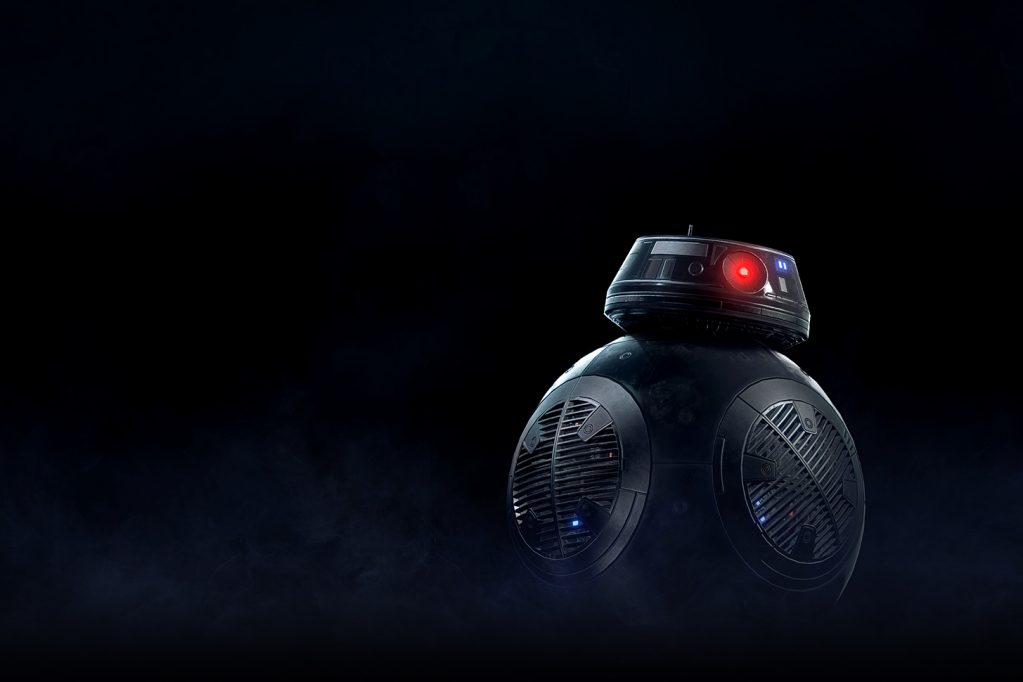
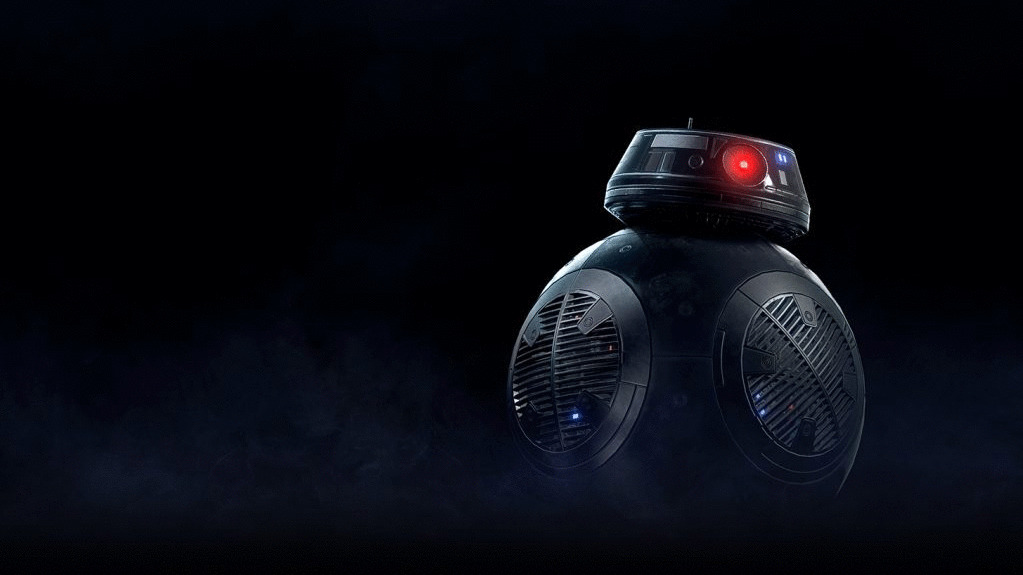
image improvements

Changed region(s): [[0.4848, 0.207, 0.8485, 0.8574]]

diff --git a/data.js b/data.js
@@ -49,7 +49,7 @@ data={
       },
       { 
          "name":"Death Star II",
-         "imgUrl":"img/location/planet/death-star-ii.jpg",
+         "imgUrl":"img/location/death-star-ii.jpg",
          "summary":{ 
             "maps":1,
             "online-modes":[ 
@@ -239,6 +239,7 @@ data={
       },
       { 
          "name":"MC85 Star Cruiser",
+            "imgUrl":"img/location/mc85-star-cruiser.jpg",
          "summary":{ 
             "maps":1,
             "online-modes":[ 
@@ -281,6 +282,7 @@ data={
       },
       { 
          "name":"Resurgent-Class Star Destroyer",
+            "imgUrl":"img/location/resurgent-class-star-destroyer.jpg",
          "summary":{ 
             "maps":1,
             "online-modes":[ 
@@ -293,7 +295,7 @@ data={
       },
       { 
          "name":"Scarif",
-         "imgUrl":"https://vignette.wikia.nocookie.net/battlefront/images/8/83/LandingPad13LoadingScreen.png/revision/latest?cb=20170725131013",
+            "imgUrl":"img/location/scarif.png",
          "summary":{ 
             "maps":2,
             "online-modes":[ 
@@ -1351,18 +1353,20 @@ data={
       "hero-weapon":[ 
       ]
    },
-   "rumours":[ 
+   "rumours":{
+	   "hero": [ 
       { 
          "name":"Ahsoka Tano",
-         "imgUrl":"https://thewookieegunner.files.wordpress.com/2019/08/star-wars-clone-wars-ahsoka-tano-trends-international-poster.png"
+            "imgUrl":"img/rumour/hero/ahsoka-tano.png",
       },
       { 
          "name":"Padme Amidala",
-         "imgUrl":"http://getwallpapers.com/wallpaper/full/4/d/e/902609-popular-padme-amidala-wallpapers-1920x1080.jpg"
+            "imgUrl":"img/rumour/hero/padme-amidala.png",
       },
       { 
          "name":"Asajj Ventress",
-         "imgUrl":"https://lumiere-a.akamaihd.net/v1/images/Asajj-Ventress_d5ca9413.jpeg?region=67%2C0%2C1067%2C600&width=960"
+            "imgUrl":"img/rumour/hero/asajj-ventress.png",
       }
    ]
+   }
 }

diff --git a/README.md b/README.md
@@ -1,2 +1,4 @@
 # BattlefrontIIFansite
 A fansite for star wars Battlefront II (2017)
+
+The ideal aspect ratio for card images is 1.777778. The inverse of this is 0.5625.
